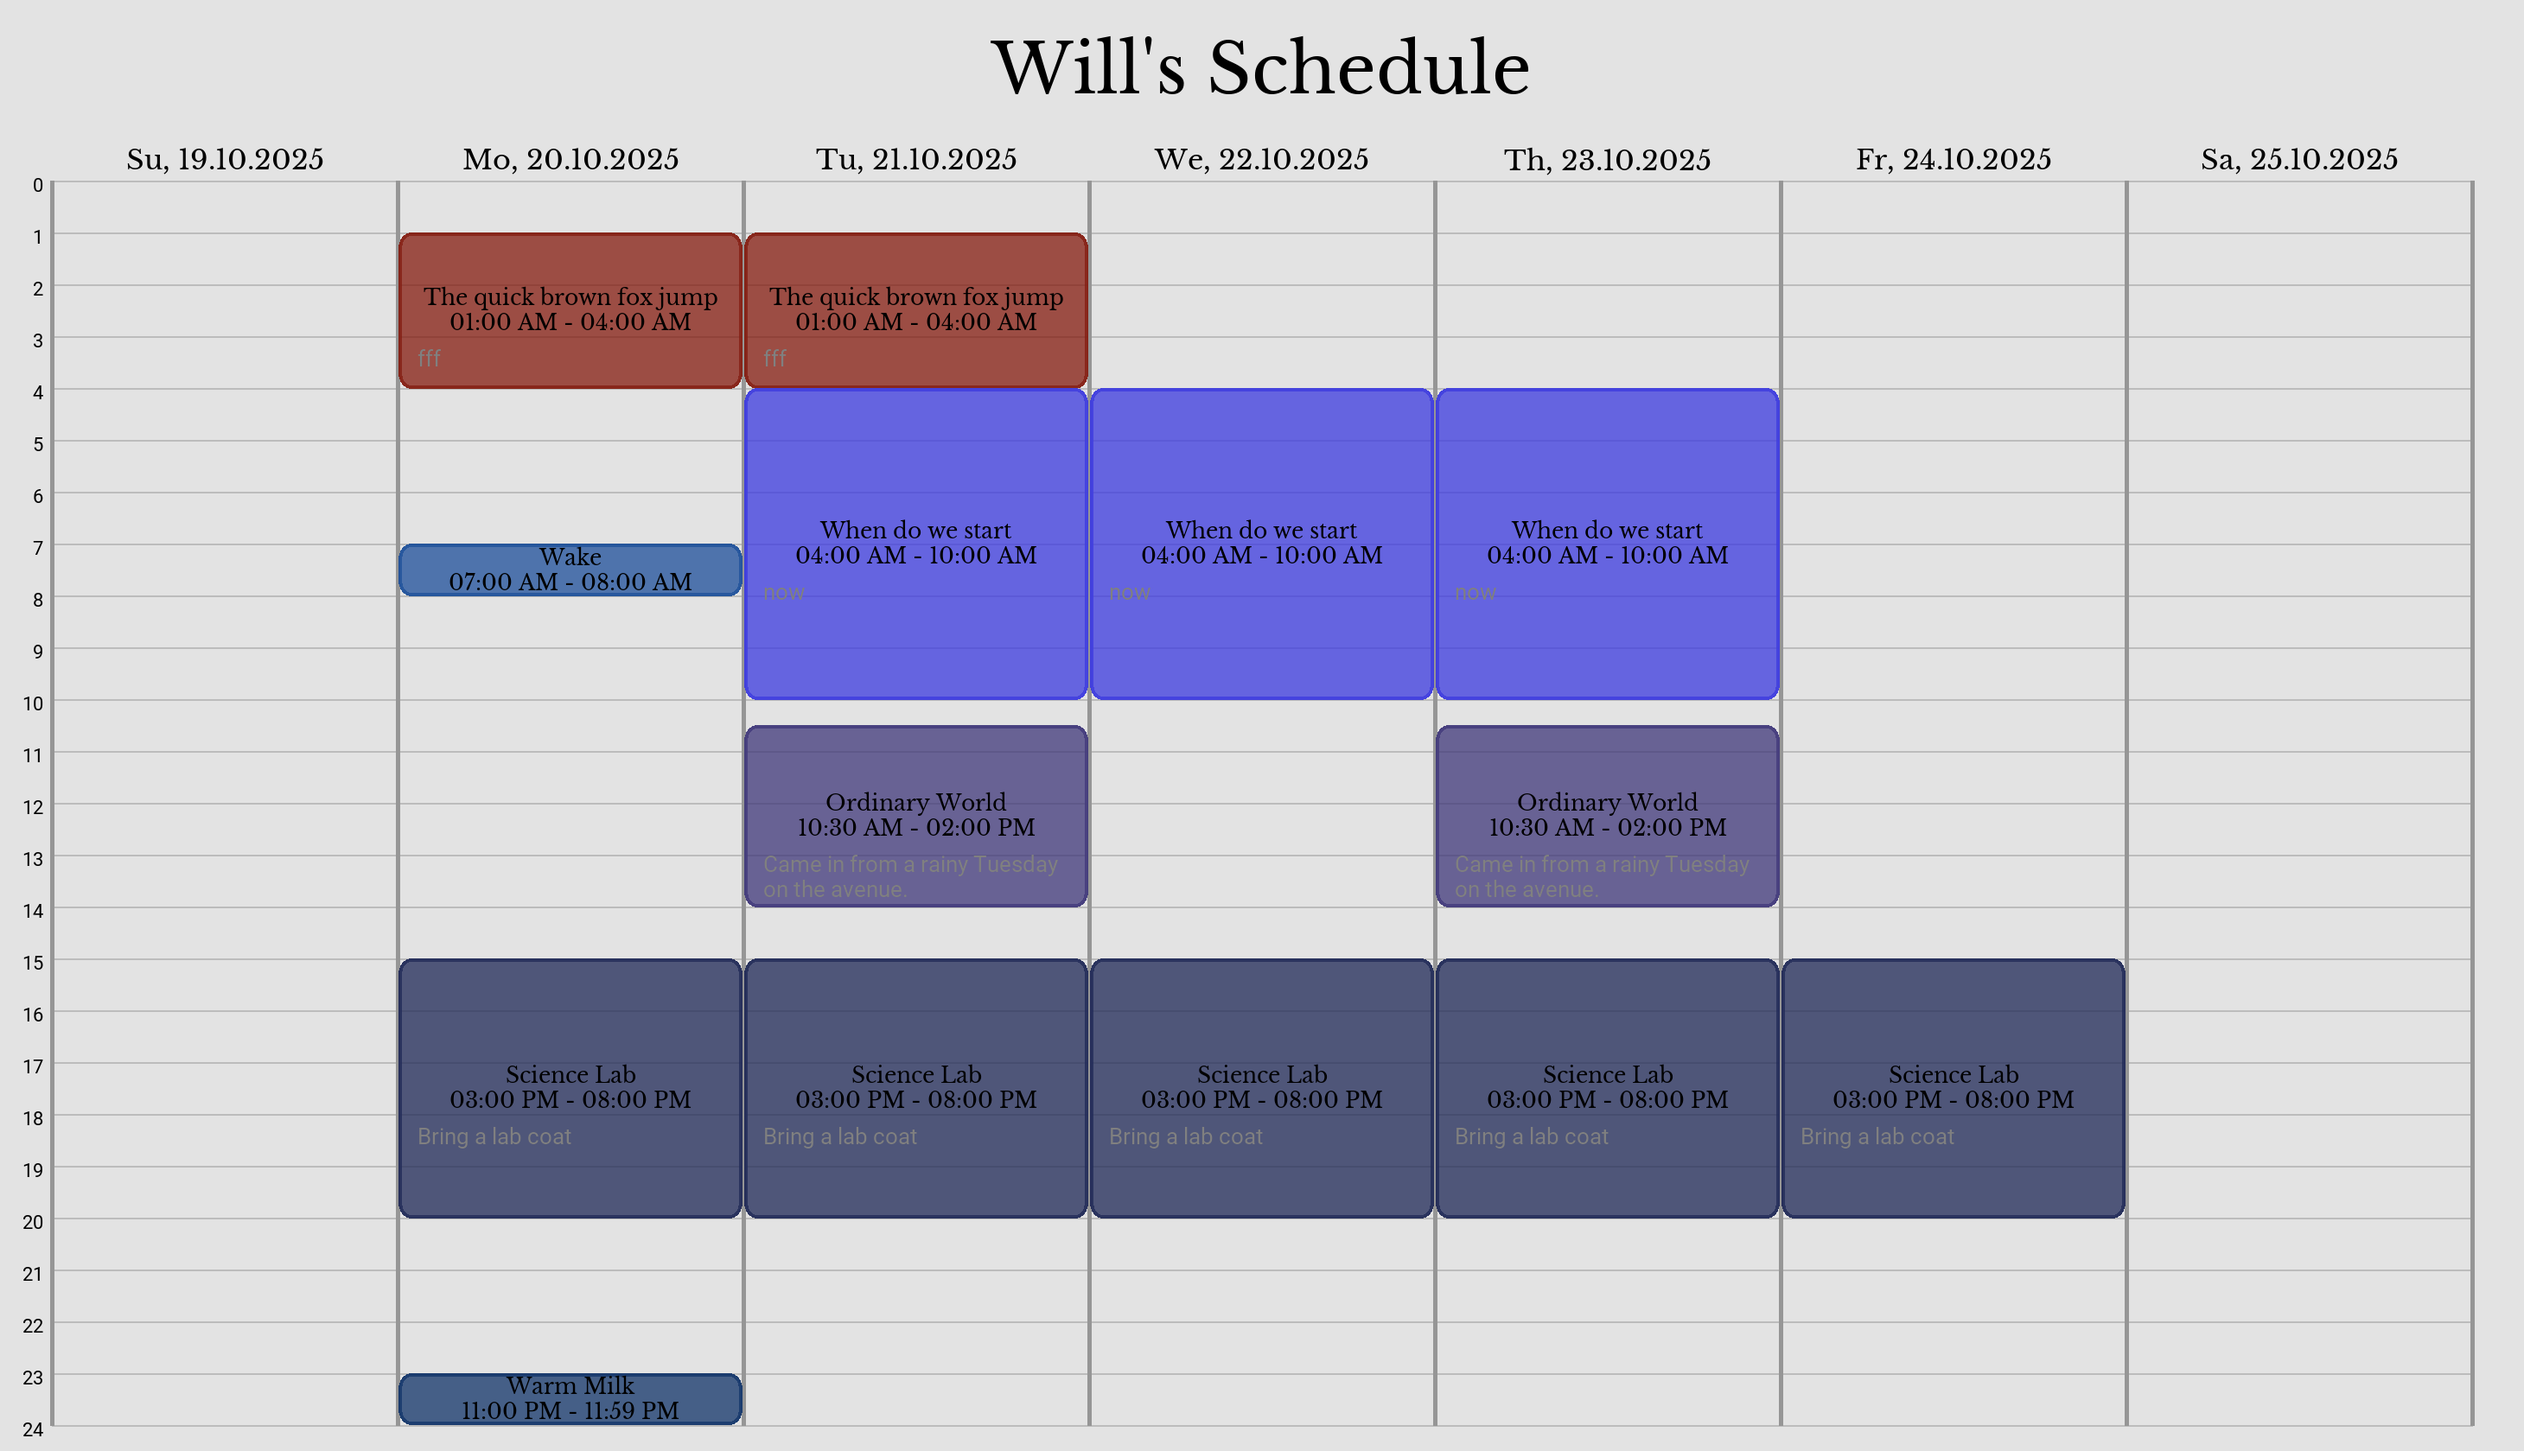
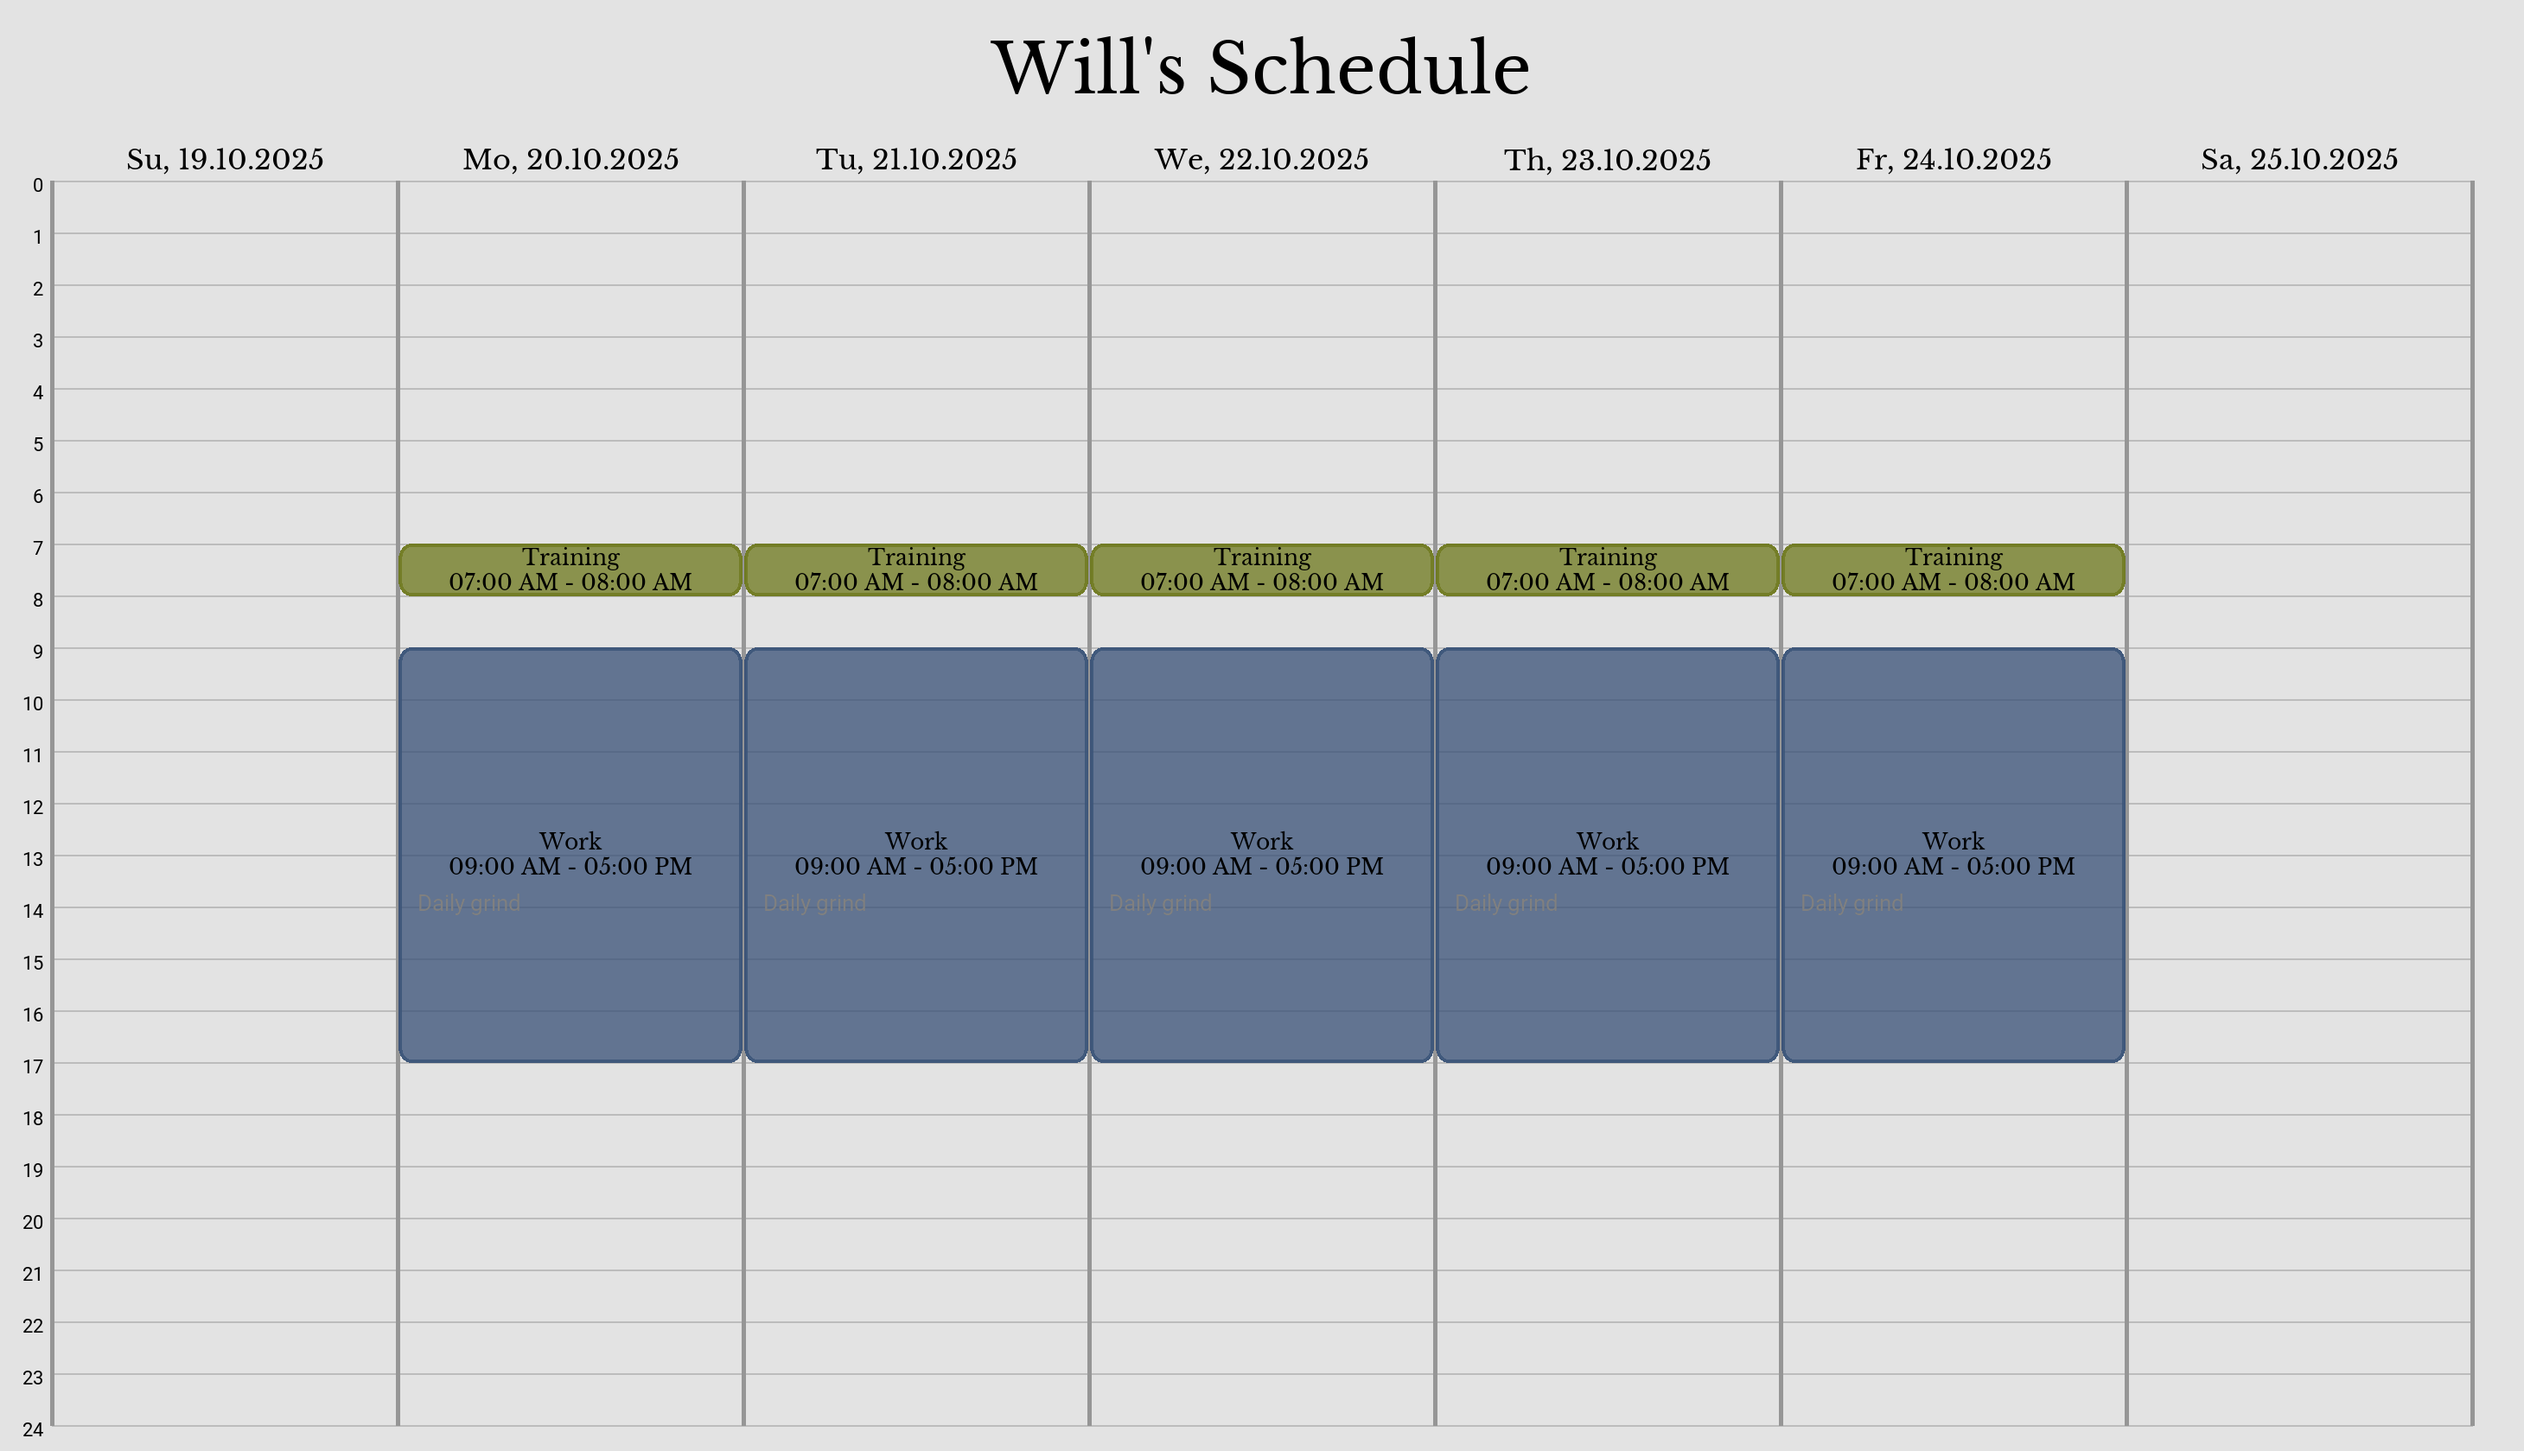
feat: add single date event that overrides reccuring week day events.

diff --git a/static/js/main.js b/static/js/main.js
@@ -147,11 +147,29 @@ function addEventFormFunctions() {
     const startSelect = document.getElementById('addEventFormStartField');
     const endSelect = document.getElementById('addEventFormEndField');
     const clearAllDays = document.getElementById('addEventFormClearAllDays');
+    const dayField = document.getElementById('addEventFormDayField')
     const daysOfWeekInput = document.querySelectorAll('input[name="day_of_week"]')
-    if (!startSelect || !endSelect || !clearAllDays || !daysOfWeekInput) { return }
+    if (!startSelect || !endSelect || !clearAllDays || !dayField || daysOfWeekInput.length === 0) { return }
 
     clearAllDays.addEventListener('click', () => {
         daysOfWeekInput.forEach(el => { el.disabled = false; el.checked = false; });
+        dayField.disabled = false;
+    });
+
+    daysOfWeekInput.forEach(el => {
+        el.addEventListener('change', () => {
+            const anyChecked = Array.from(daysOfWeekInput).some(el => el.checked);
+            dayField.value = '';
+            dayField.disabled = anyChecked;
+        });
+    });
+
+    dayField.addEventListener('change', () => {
+        if (dayField.value) {
+            daysOfWeekInput.forEach(el => el.disabled = true);
+        } else {
+            daysOfWeekInput.forEach(el => el.disabled = false);
+        }
     });
 
     function filterEndOptions() {

diff --git a/app.py b/app.py
@@ -361,6 +361,7 @@ def dashboard():
     return render_template('dashboard.html')
 
 #region --- Calendar Routes ---
+
 @app.route('/week-schedule', methods=['GET', 'POST'])
 @login_required
 def week_schedule():
@@ -390,34 +391,53 @@ def week_schedule():
 
     if request.method == 'POST':
         if add_event_form.validate_on_submit():
+            print(add_event_form.day.data, add_event_form.day_of_week.data)
+            if add_event_form.day.data and add_event_form.day_of_week.data:
+                flash("Error selecting days.", 'warning')
+                return redirect(url_for('week_schedule'))
+            
             start_time = time.fromisoformat(add_event_form.start.data)
             end_time = time.fromisoformat(add_event_form.end.data)
 
-            conflict = db.session.execute(
-                select(CalendarEvent)
-                .join(CalendarEvent.recurring_days)
-                .filter(
-                    CalendarEvent.user_id == current_user.id,
-                    CalendarEventDay.day_of_week.in_(add_event_form.day_of_week.data),
-                    CalendarEvent.start < end_time,
-                    CalendarEvent.end > start_time
-                )
-            ).scalars().first()
+            if add_event_form.day.data:
+                conflict = db.session.execute(
+                    select(CalendarEvent)
+                    .filter(
+                        CalendarEvent.user_id == current_user.id,
+                        CalendarEvent.day == add_event_form.day.data,
+                        CalendarEvent.start < end_time,
+                        CalendarEvent.end > start_time
+                    )
+                ).scalars().first()
+            else:
+                conflict = db.session.execute(
+                    select(CalendarEvent)
+                    .join(CalendarEvent.recurring_days)
+                    .filter(
+                        CalendarEvent.user_id == current_user.id,
+                        CalendarEventDay.day_of_week.in_(add_event_form.day_of_week.data),
+                        CalendarEvent.start < end_time,
+                        CalendarEvent.end > start_time
+                    )
+                ).scalars().first()
 
             if conflict:
                 flash(f"Conflict with: '{conflict.title}'", 'warning')
                 return redirect(url_for('week_schedule'))
 
             new_event = CalendarEvent(
-                user_id = current_user.id,
-                title = add_event_form.title.data,
-                notes = add_event_form.notes.data,
-                start = start_time,
-                end = end_time,
-                color = add_event_form.color.data
+                user_id=current_user.id,
+                title=add_event_form.title.data,
+                notes=add_event_form.notes.data,
+                day=add_event_form.day.data if add_event_form.day.data else None,
+                start=start_time,
+                end=end_time,
+                color=add_event_form.color.data
             )
 
-            if add_event_form.day_of_week.data:
+            db.session.add(new_event)
+
+            if not add_event_form.day.data and add_event_form.day_of_week.data:
                 recurring_days = [
                     CalendarEventDay(day_of_week = day, event = new_event)
                     for day in add_event_form.day_of_week.data
@@ -427,7 +447,7 @@ def week_schedule():
             try:
                 db.session.commit()
                 update_calendar_image(current_user.id)
-                flash('Event added successfully!', 'success')
+                flash('Schedule added successfully!', 'success')
             except SQLAlchemyError as e:
                 db.session.rollback()
                 logging.error(f"Add event to database error: {e}")
@@ -507,7 +527,7 @@ def share_calendar_request():
         db.session.add(share)
         db.session.commit()
         flash(f"Share request sent to {identifier}", 'success')
-        return redirect(url_for('week_schedule'))
+        return redirect(url_for('week_share'))
 
 @app.route('/week-share', methods=['GET', 'POST'])
 @login_required

diff --git a/helpers.py b/helpers.py
@@ -78,15 +78,51 @@ def hex_to_rgba(hex_color, alpha):
 
 def database_to_calendarview(data):
     events = []
+
+    one_time_events_by_weekday = {}
     for event in data:
-        for recurring_day in event.recurring_days:
+        if event.day:
+            weekday = event.day.weekday()
+            one_time_events_by_weekday.setdefault(weekday, []).append(event)
+
             start_str = event.start.strftime('%I:%M %p')
             end_str = event.end.strftime('%I:%M %p')
             title_with_time = f"{event.title}\n{start_str} - {end_str}"
 
             events.append(
                 Event(
-                    day_of_week=recurring_day.day_of_week,
+                    day=event.day.strftime('%Y-%m-%d'),
+                    start=event.start.strftime('%H:%M'),
+                    end=event.end.strftime('%H:%M'),
+                    title=title_with_time,
+                    notes=event.notes,
+                    style=EventStyle(
+                        event_border=hex_to_rgba(event.color, 240),
+                        event_fill=hex_to_rgba(event.color, 192)
+                    )
+                )
+            )
+
+    for event in data:
+        for recurring_day in event.recurring_days:
+            weekday = recurring_day.day_of_week
+
+            overlaps = False
+            for one_time_event in one_time_events_by_weekday.get(weekday, []):
+                if event.start < one_time_event.end and event.end > one_time_event.start:
+                    overlaps = True
+                    break
+                
+            if overlaps:
+                continue
+
+            start_str = event.start.strftime('%I:%M %p')
+            end_str = event.end.strftime('%I:%M %p')
+            title_with_time = f"{event.title}\n{start_str} - {end_str}"
+
+            events.append(
+                Event(
+                    day_of_week=weekday,
                     start=event.start.strftime('%H:%M'),
                     end=event.end.strftime('%H:%M'),
                     title=title_with_time,

diff --git a/forms.py b/forms.py
@@ -122,6 +122,7 @@ class AddEventForm(FlaskForm):
     form_type = HiddenField('Form Type', default='add-event')
     title = StringField('Title', validators=[DataRequired(), Length (min=1, max=24)])
     notes = TextAreaField('Notes', render_kw={"rows":2, "maxlength":64}, validators=[Optional(), Length(max=64)])
+    day = DateField('Date', render_kw={"min": date.today().isoformat()}, validators=[Optional()])
     day_of_week = SelectMultipleField(
         'Day(s) of the Week',
         choices=[
@@ -145,10 +146,10 @@ class AddEventForm(FlaskForm):
     def validate(self, extra_validators=None):
         is_valid = super().validate(extra_validators)
         return is_valid
-    
-    def validate_day_of_week(self, field):
-        if not field.data or len(field.data) == 0:
-            raise ValidationError('Please select at least one day.')
+
+    def validate_day(self, field):
+        if field.data and field.data < date.today():
+            raise ValidationError("Date cannot be in the past.")
 
 class EditEventForm(FlaskForm):
     form_type = HiddenField('Form Type', default='edit-event')

diff --git a/models.py b/models.py
@@ -78,6 +78,7 @@ class CalendarEvent(db.Model):
     start: Mapped[time] = mapped_column(Time(), nullable=False)
     end: Mapped[time] = mapped_column(Time(), nullable=False)
     color: Mapped[str] = mapped_column(String(7), nullable=False)
+    day: Mapped[date] = mapped_column(Date(), nullable=True)
 
     user = relationship('User', back_populates='calendar_events')
     recurring_days = relationship('CalendarEventDay', back_populates='event', cascade='all, delete-orphan')
@@ -128,3 +129,4 @@ class CalendarShare(db.Model):
 
     image = relationship('CalendarImage', back_populates='viewers')
     viewer = relationship('User', backref='received_calendar_images')
+
